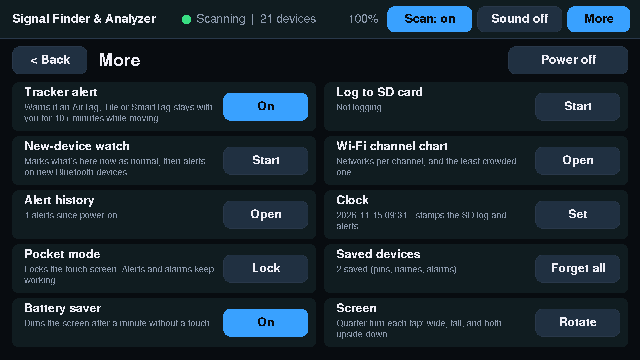
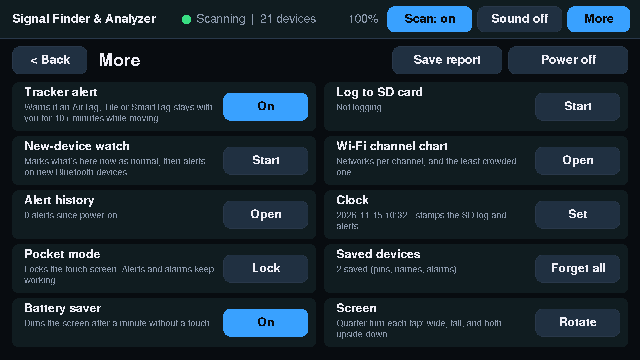
Update screenshots: More screen with Save report, error-report pop-up

Changed region(s): [[0.5938, 0.1222, 0.7812, 0.2139]]

diff --git a/main/errlog.cpp b/main/errlog.cpp
@@ -239,3 +239,9 @@ bool errlog_save(const char *status) {
     ESP_LOGI("finder_err", "%s%s%s", s_message, core_path[0] ? " + " : "", core_path[0] ? core_path + 4 : "");
     return true;
 }
+
+void errlog_demo_crash() {
+#if FINDER_DEMO
+    snprintf(s_crash_text, sizeof s_crash_text, "The app stopped unexpectedly last time");
+#endif
+}

diff --git a/main/errlog.h b/main/errlog.h
@@ -25,3 +25,6 @@ const char *errlog_message();
 
 // Forget the crash (after saving, or when the user says "not now").
 void errlog_dismiss();
+
+// Demo mode only: pretend the last run crashed, so the pop-up can be shown.
+void errlog_demo_crash();

diff --git a/README.md b/README.md
@@ -20,6 +20,8 @@ up first at every power-on.
 | Wi-Fi networks | Wi-Fi channel chart | Volume slider |
 | ![Phone bands](docs/screenshots/phone-bands.png) | ![Following one phone band](docs/screenshots/phone-finder.png) | ![More screen](docs/screenshots/more.png) |
 | Phone bands | Following one phone band | More screen |
+| ![Error report pop-up](docs/screenshots/error-report.png) | ![Pocket mode](docs/screenshots/pocket-mode.png) | |
+| Error report pop-up after a crash | Pocket mode | |
 
 Portrait works too:
 
